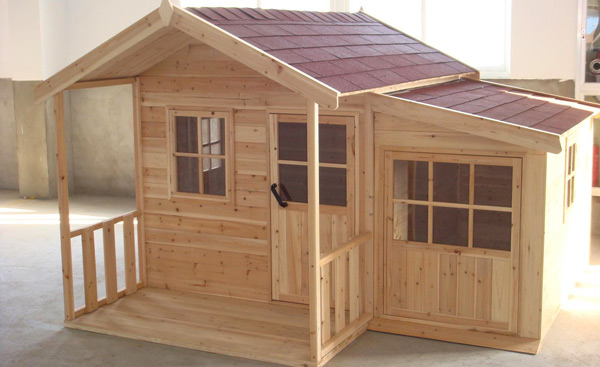
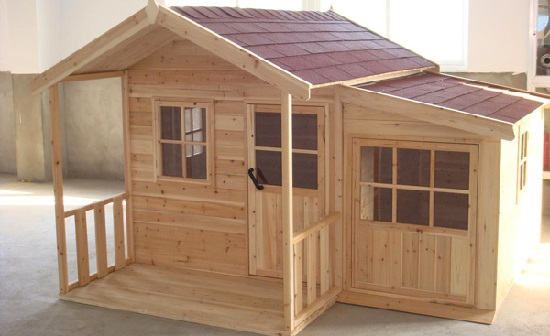
Making sizes equal. Changed carousel images

diff --git a/index.html b/index.html
@@ -156,7 +156,7 @@
                                 </a>
                             </div>
                         </div>
-                        <a href="advantages.html"><img src="images/picture9.jpg" alt="First slide"></a>
+                        <a href="advantages.html"><img src="images/carousel1.jpg" alt="First slide"></a>
                     </div>
                     <div class="item in-carousel">
                         <div class="row">
@@ -167,7 +167,7 @@
                                 </a>
                             </div>
                         </div>
-                        <a href="advantages.html"><img src="images/picture10.jpg" alt="First slide"></a>
+                        <a href="advantages.html"><img src="images/carousel2.jpg" alt="First slide"></a>
                     </div>
                     <div class="item in-carousel">
                         <div class="row">
@@ -178,7 +178,7 @@
                                 </a>
                             </div>
                         </div>
-                        <a href="advantages.html"><img src="images/picture11.jpg" alt="First slide"></a>
+                        <a href="advantages.html"><img src="images/carousel3.jpg" alt="First slide"></a>
                     </div>
                   </div>
                   <a class="left carousel-control" href="#myCarousel" role="button" data-slide="prev">
